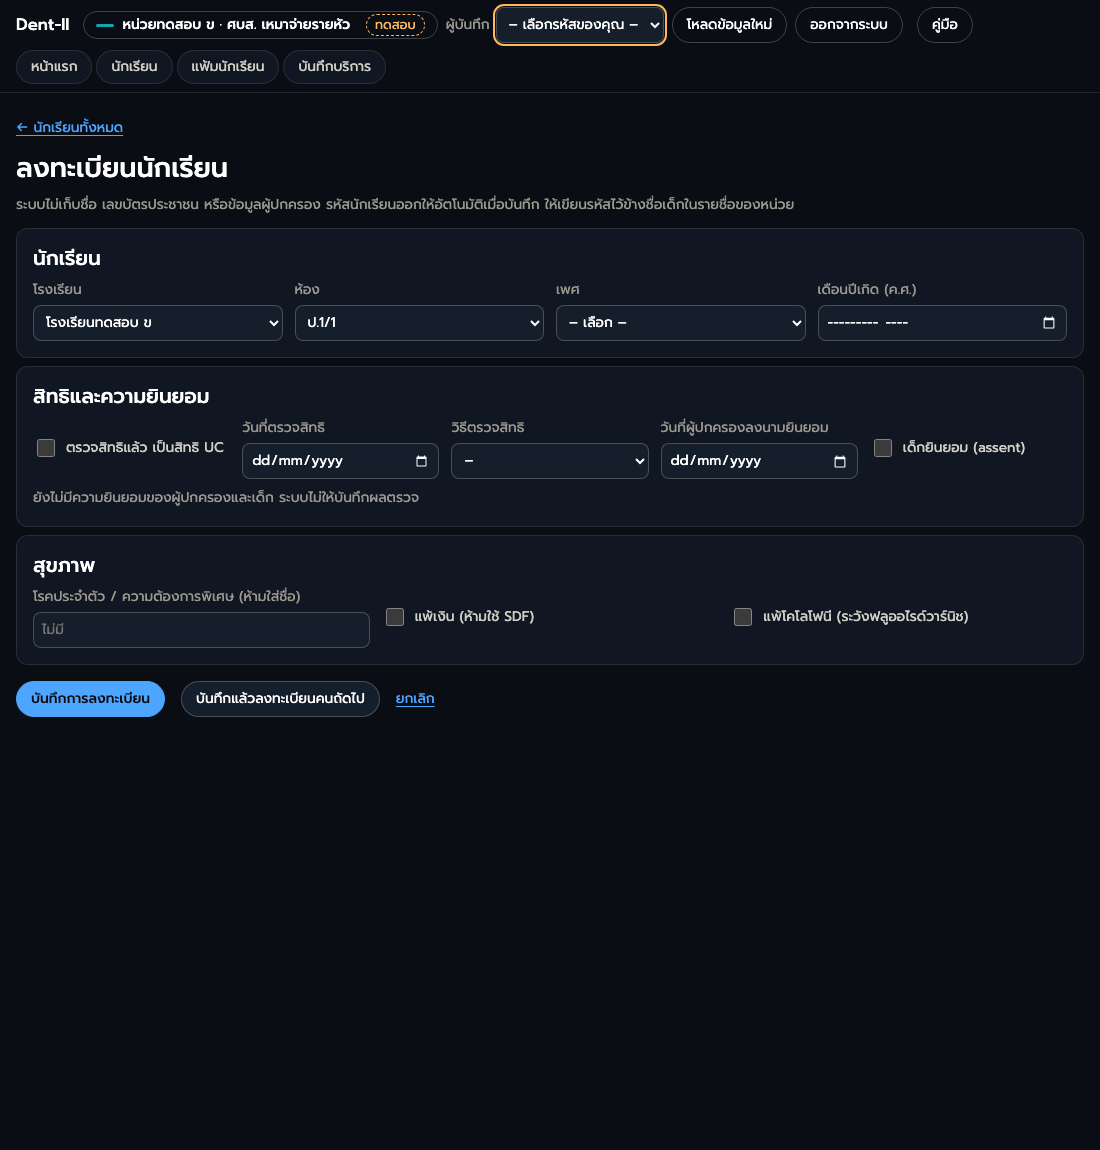
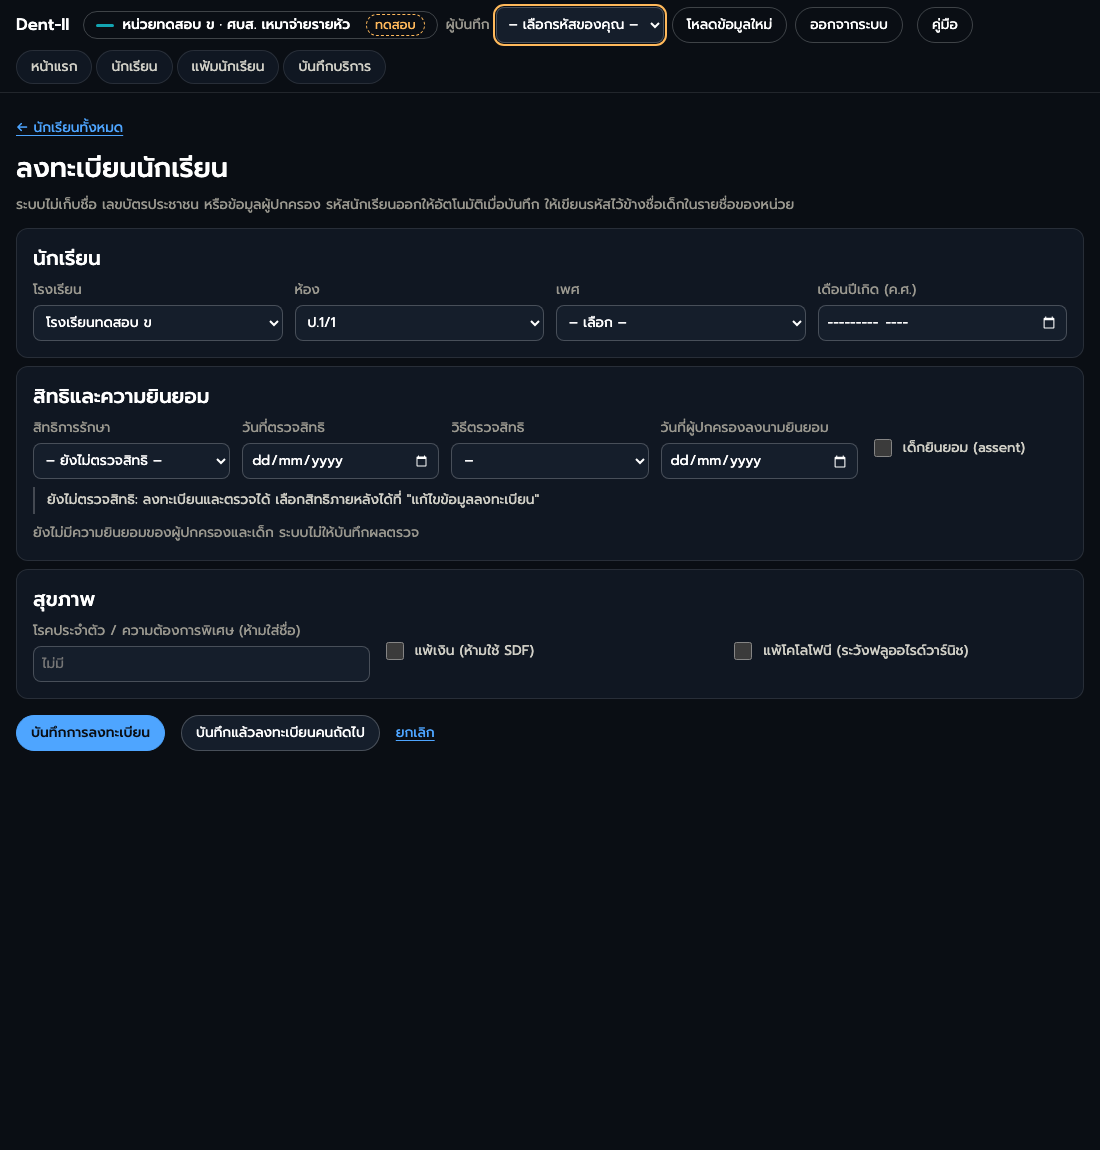
v1.0.2: health coverage at enrolment (UC / other public scheme / none), D-68
Other public schemes are claimed like UC; children with no public coverage
(e.g. foreign children) are paid the full project rate with no NHSO claim.
Coverage shows in the child file, kid cards, claim preview and ledger notes,
and in v_services_priced (coverage, nhso_first) and v_export_children.

Changed region(s): [[0.0, 0.3652, 0.4945, 0.6696], [0.6491, 0.5174, 0.8655, 0.5783], [0.34, 0.5174, 0.4945, 0.5783]]

diff --git a/app.js b/app.js
@@ -25,7 +25,7 @@ const el = (tag, attrs = {}, ...kids) => {
   for (const c of kids) if (c != null && c !== false) e.append(c);
   return e;
 };
-// Elements added in v1.0.1 may be missing from a cached old index.html: set them softly (R2-01).
+// Elements added in v1.0.1 and later may be missing from a cached old index.html: set them softly (R2-01).
 const setIf = (sel, key, v) => { const e = $(sel); if (e) e[key] = v; };
 // replaceChildren() prints null and false as text ("null"); this skips them, like el() does (R1-01).
 const fill = (node, ...kids) => node.replaceChildren(...kids.filter(c => c != null && c !== false));
@@ -313,6 +313,14 @@ function kidFrom(c, ex) {
   return k;
 }
 const sexTh = k => (k.c.sex === 'F' ? 'หญิง' : k.c.sex === 'M' ? 'ชาย' : '');
+// Health coverage (D-68): another public scheme is claimed like UC; with no public coverage (e.g. a foreign
+// child) the unit does not claim NHSO and the project pays its full rate.
+const COV = {
+  uc: { th: 'UC (บัตรทอง)', ex: '', rule: 'เบิก สปสช. ตามปกติ และเบิกโครงการตามอัตราค่าบริการของหน่วย' },
+  other: { th: 'สิทธิรัฐอื่น', ex: ' เช่น ข้าราชการ ประกันสังคม รัฐวิสาหกิจ อปท.', rule: 'เบิกเหมือนเด็กสิทธิ UC' },
+  none: { th: 'ไม่มีสิทธิรัฐ', ex: ' เช่น เด็กต่างด้าวที่ไม่มีหลักประกันสุขภาพภาครัฐ', rule: 'ไม่ต้องเบิก สปสช. โครงการจ่ายเต็มอัตราตามอัตราค่าบริการของหน่วย' },
+};
+const covText = c => (COV[c.coverage] ? `${COV[c.coverage].th} · ${COV[c.coverage].rule}` : 'ยังไม่ตรวจสิทธิ');
 const kidLabel = k => [k.cls, sexTh(k)].filter(Boolean).join(' · ');
 function reindex(u) {
   u.txByKid = {};
@@ -624,6 +632,7 @@ function kidCard(u, k, st) {
   m.firstChild.style.width = prog + '%';
   const chips = el('span', { class: 'kc-chips' },
     !hasConsent(k) ? el('span', { class: 'chip chip--stop', text: 'ยังไม่มีความยินยอม' }) : null,
+    k.c.coverage === 'none' ? el('span', { class: 'chip chip--plain', text: 'ไม่มีสิทธิรัฐ' }) : null,
     ...st.miss.slice(0, 4).map(x => el('span', { class: 'chip chip--warn', text: x.t })),
     ...st.due.slice(0, 3).map(x => el('span', { class: 'chip chip--due', text: x.t })),
     st.refWait ? el('span', { class: 'chip chip--stop', text: 'ส่งต่อ รอผล' }) : null,
@@ -694,7 +703,7 @@ const lastClass = u => { try { return JSON.parse(lsGet('dent2-class-' + u.id) ||
 function clearChildFields(c = {}) {
   $('#enSex').value = c.sex || '';
   $('#enBym').value = c.birth_ym || '';
-  $('#enUc').checked = !!c.uc_verified; $('#enUcDate').value = c.uc_checked_on || ''; $('#enUcMethod').value = c.uc_method || '';
+  setIf('#enCov', 'value', c.coverage || ''); $('#enUcDate').value = c.uc_checked_on || ''; $('#enUcMethod').value = c.uc_method || ''; covHint();
   $('#enConsent').value = c.consent_on || ''; $('#enAssent').checked = !!c.assent;
   $('#enCond').value = c.conditions || ''; $('#enAgSilver').checked = !!c.allergy_silver; $('#enAgColo').checked = !!c.allergy_colophony;
   beAll($('#enForm'));
@@ -719,6 +728,11 @@ function renderEnrol() {
   clearChildFields(c);
 }
 $('#enSchool').addEventListener('change', e => fillClasses(unit(), e.target.value));
+function covHint() {
+  const v = $('#enCov') ? $('#enCov').value : '';
+  setIf('#enCovHint', 'textContent', v ? `${COV[v].th}${COV[v].ex}: ${COV[v].rule}` : 'ยังไม่ตรวจสิทธิ: ลงทะเบียนและตรวจได้ เลือกสิทธิภายหลังได้ที่ "แก้ไขข้อมูลลงทะเบียน"');
+}
+$('#enCov')?.addEventListener('change', covHint);
 let enNext = false;   // which submit button was used (also for browsers without SubmitEvent.submitter)
 $('#enSaveNext')?.addEventListener('click', () => { enNext = true; });
 $('#enSave').addEventListener('click', () => { enNext = false; });
@@ -736,12 +750,13 @@ $('#enForm').addEventListener('submit', async e => {
   if (bym && +bym.slice(0, 4) > 2400) return bad('เดือนปีเกิด: ช่องนี้ใช้ปี ค.ศ. (พ.ศ. ลบ 543) เช่น 2019-05');
   if (bym && !/^\d{4}-(0[1-9]|1[0-2])$/.test(bym)) return bad('เดือนปีเกิด: ใส่ปี ค.ศ.-เดือน เช่น 2019-05');
   if (bym && bym > toInput(TODAY).slice(0, 7)) return bad('เดือนปีเกิดอยู่ในอนาคต');
+  if ($('#enCov') && !$('#enCov').value && ($('#enUcDate').value || $('#enUcMethod').value)) return bad('เลือกสิทธิการรักษา (ใส่วันที่หรือวิธีตรวจสิทธิไว้แล้ว)');
   for (const [id, lab] of [['#enUcDate', 'วันที่ตรวจสิทธิ'], ['#enConsent', 'วันที่ลงนามยินยอม']]) {
     const p = dateProblem($(id).value, lab); if (p) return bad(p);
   }
   const child = {
     school_id: $('#enSchool').value, class: $('#enClass').value, sex: $('#enSex').value, birth_ym: bym || null,
-    consent_on: $('#enConsent').value || null, assent: $('#enAssent').checked, uc_verified: $('#enUc').checked,
+    consent_on: $('#enConsent').value || null, assent: $('#enAssent').checked, coverage: $('#enCov') ? $('#enCov').value || null : undefined,
     uc_checked_on: $('#enUcDate').value || null, uc_method: $('#enUcMethod').value || null, conditions: $('#enCond').value.trim() || null,
     allergy_silver: $('#enAgSilver').checked, allergy_colophony: $('#enAgColo').checked,
   };
@@ -837,7 +852,7 @@ function renderFileHead() {
     el('details', {}, el('summary', { text: 'ข้อมูลลงทะเบียน' }),
       el('div', { class: 'childbar', style: 'margin-top:10px' },
         kv('เดือนปีเกิด', k.birth ? thMon(k.birth) : '–'),
-        kv('สิทธิ UC', k.c.uc_verified ? `ยืนยันแล้ว${k.c.uc_method ? ' (' + k.c.uc_method + ')' : ''}${k.c.uc_checked_on ? ' ' + thShort(fromInput(k.c.uc_checked_on)) : ''}` : 'ยังไม่ยืนยัน'),
+        kv('สิทธิการรักษา', `${covText(k.c)}${k.c.coverage && k.c.uc_method ? ' (' + k.c.uc_method + ')' : ''}${k.c.coverage && k.c.uc_checked_on ? ' ' + thShort(fromInput(k.c.uc_checked_on)) : ''}`),
         kv('ความยินยอม', `${k.c.consent_on ? 'ผู้ปกครองลงนาม ' + thShort(fromInput(k.c.consent_on)) : 'ผู้ปกครองยังไม่ลงนาม'} · ${k.c.assent ? 'เด็กยินยอม' : 'เด็กยังไม่ยินยอม'}`),
         kv('โรคประจำตัว · การแพ้', `${k.c.conditions || 'ไม่มี'} · ${[k.c.allergy_silver ? 'แพ้เงิน (ห้าม SDF)' : '', k.c.allergy_colophony ? 'แพ้โคโลโฟนี' : ''].filter(Boolean).join(', ') || 'ไม่มี'}`)),
       el('div', { class: 'row', style: 'margin-top:10px' }, el('button', { class: 'btn', type: 'button', text: 'แก้ไขข้อมูลลงทะเบียน', onclick: () => { if (dirtyGuard()) { S.editId = k.id; show('enrol'); } } }))));
@@ -1361,6 +1376,9 @@ function txFlags(u) {
     if (isPrimNo(tx.tooth)) notes.push('ฟันน้ำนม ไม่นับในงบโครงการ');
     if (PRICE[tx.code] && PRICE[tx.code].outside && !isPrimNo(tx.tooth)) notes.push('นอกงบโครงการ เบิกตามระบบปกติ');
     if (PRICE[tx.code] && PRICE[tx.code].unpriced) notes.push('ยังไม่มีราคา (นับจำนวนไว้)');
+    const kc = tx.kid && u.byId[tx.kid] ? u.byId[tx.kid].c : null;
+    if (kc && kc.coverage === 'none') notes.push('ไม่มีสิทธิรัฐ: ไม่เบิก สปสช. โครงการจ่ายเต็มอัตรา');
+    if (kc && !kc.coverage) notes.push('ยังไม่ระบุสิทธิการรักษา');
     if (tx.kid && tx.code === '170') {
       if (u.arm === 'control' ? bump(`170|${tx.kid}|${tx.date.getFullYear()}`) > 1 : bump(`170|${tx.kid}|${tx.date.getFullYear()}-${tx.date.getMonth()}`) > 1)
         notes.push(u.arm === 'control' ? 'ฟลูออไรด์เกินปีละ 1 ครั้ง (เงื่อนไข สปสช. รอยืนยัน)' : 'ฟลูออไรด์เกินเดือนละ 1 ครั้ง');
@@ -1431,6 +1449,7 @@ function claimPreview() {
   const pf = planFor(k, { code, tooth, date: d });
   const v = refValue(u, code, tooth);
   pv.append(line('นักเรียน', `${k.id} · ${kidLabel(k)} · เดือนที่ ${monthOf(k.base, d)} หลังตรวจครั้งแรก`),
+    line('สิทธิ', k.c.coverage ? covText(k.c) : 'ยังไม่ตรวจสิทธิ · เลือกได้ที่ "แก้ไขข้อมูลลงทะเบียน" ในแฟ้มนักเรียน'),
     line('แผน', !pf ? 'นอกแผน · บันทึกได้ ติดป้าย "นอกแผน"'
       : pf.late ? `ตามแผน (เลยกำหนด) เดือนที่ ${pf.month}: ${rowName(pf.row)} · ติ๊กช่องเดือนที่ ${pf.month} ให้`
         : `ตรงกับแผน: ${rowName(pf.row)}${pf.month ? ` เดือนที่ ${pf.month}` : ''} · ติ๊กในแผนให้`),

diff --git a/guide.html b/guide.html
@@ -101,7 +101,13 @@ kbd { font-family: inherit; border: 1px solid var(--line); border-bottom-width: 
 <ol>
 <li>ไปที่แท็บ <b>นักเรียน</b> กด <b>+ ลงทะเบียนนักเรียน</b></li>
 <li>เลือกโรงเรียน ห้อง และเพศ ใส่เดือนปีเกิด (ปี ค.ศ.)</li>
-<li>สิทธิ UC: ติ๊กเมื่อตรวจสิทธิแล้ว ใส่วันที่และวิธีตรวจ</li>
+<li>สิทธิการรักษา: เลือก 1 ใน 3 แล้วใส่วันที่และวิธีตรวจสิทธิ
+  <ul>
+  <li><b>UC (บัตรทอง)</b>: เบิก สปสช. ตามปกติ และเบิกโครงการตามอัตราค่าบริการของหน่วย</li>
+  <li><b>สิทธิรัฐอื่น</b> เช่น ข้าราชการ ประกันสังคม รัฐวิสาหกิจ อปท.: เบิกเหมือนเด็กสิทธิ UC</li>
+  <li><b>ไม่มีสิทธิรัฐ</b> เช่น เด็กต่างด้าวที่ไม่มีหลักประกันสุขภาพภาครัฐ: ไม่ต้องเบิก สปสช. โครงการจ่ายเต็มอัตราตามอัตราค่าบริการของหน่วย</li>
+  </ul>
+  ยังไม่ได้ตรวจสิทธิก็ลงทะเบียนและตรวจได้ แล้วเลือกสิทธิภายหลังที่ "แก้ไขข้อมูลลงทะเบียน"</li>
 <li>ความยินยอม: ใส่วันที่ผู้ปกครองลงนาม และติ๊ก "เด็กยินยอม" <b>ถ้าไม่มีทั้งสองอย่าง ระบบจะไม่ให้บันทึกผลตรวจ</b></li>
 <li>โรคประจำตัวและการแพ้: แพ้เงินห้ามใช้ SDF แพ้โคโลโฟนีให้ระวังฟลูออไรด์วาร์นิช</li>
 <li>กด <b>บันทึกการลงทะเบียน</b> ระบบแสดงรหัสนักเรียนใหม่ <b>เขียนรหัสนี้ลงในรายชื่อของหน่วยทันที</b></li>
@@ -167,7 +173,7 @@ kbd { font-family: inherit; border: 1px solid var(--line); border-bottom-width: 
 <li>หลักฐาน: รูปกิจกรรมและรายชื่อที่ครูประจำชั้นลงนาม เก็บไว้ที่หน่วย</li>
 </ol>
 <figure><img src="guide-img/claims.png" alt="หน้าบันทึกและเบิก" loading="lazy"><figcaption>หน้าบันทึกและเบิก</figcaption></figure>
-<p>ระบบเตือนเมื่อบันทึกซ้ำเกินเงื่อนไข เช่น ฟลูออไรด์เกินเดือนละครั้ง เคลือบหลุมร่องฟันซ้ำซี่เดิม ชุดอุปกรณ์แปรงฟันเกินปีละครั้ง ข้อความเตือนขึ้นสีส้มใต้ชื่อบริการ</p>
+<p>ระบบเตือนเมื่อบันทึกซ้ำเกินเงื่อนไข เช่น ฟลูออไรด์เกินเดือนละครั้ง เคลือบหลุมร่องฟันซ้ำซี่เดิม ชุดอุปกรณ์แปรงฟันเกินปีละครั้ง ข้อความเตือนขึ้นสีส้มใต้ชื่อบริการ รายการของเด็กที่ไม่มีสิทธิรัฐมีข้อความ "ไม่มีสิทธิรัฐ: ไม่เบิก สปสช. โครงการจ่ายเต็มอัตรา" และรายการของเด็กที่ยังไม่ได้เลือกสิทธิมีข้อความ "ยังไม่ระบุสิทธิการรักษา"</p>
 
 <h2 id="s7">7. ส่งเบิก</h2>
 <ul>

diff --git a/index.html b/index.html
@@ -8,8 +8,8 @@
 <link rel="preconnect" href="https://fonts.googleapis.com">
 <link rel="preconnect" href="https://fonts.gstatic.com" crossorigin>
 <link rel="stylesheet" href="https://fonts.googleapis.com/css2?family=Prompt:wght@300;400;500;600&display=swap">
-<link rel="stylesheet" href="style.css?v=1.0.1">
-<link rel="stylesheet" href="app.css?v=1.0.1">
+<link rel="stylesheet" href="style.css?v=1.0.2">
+<link rel="stylesheet" href="app.css?v=1.0.2">
 </head>
 <body>
 <header class="topbar">
@@ -96,12 +96,13 @@
       <div class="card stack">
         <h3>สิทธิและความยินยอม</h3>
         <div class="g2f">
-          <label class="chk"><input type="checkbox" id="enUc"> ตรวจสิทธิแล้ว เป็นสิทธิ UC</label>
+          <label class="field">สิทธิการรักษา<select id="enCov"><option value="">– ยังไม่ตรวจสิทธิ –</option><option value="uc">UC (บัตรทอง)</option><option value="other">สิทธิรัฐอื่น</option><option value="none">ไม่มีสิทธิรัฐ</option></select></label>
           <label class="field">วันที่ตรวจสิทธิ<input id="enUcDate" type="date"></label>
           <label class="field">วิธีตรวจสิทธิ<select id="enUcMethod"><option value="">–</option><option>ตรวจสิทธิออนไลน์</option><option>บัตรประชาชน / สูติบัตร</option><option>อื่น ๆ</option></select></label>
           <label class="field">วันที่ผู้ปกครองลงนามยินยอม<input id="enConsent" type="date"></label>
           <label class="chk"><input type="checkbox" id="enAssent"> เด็กยินยอม (assent)</label>
         </div>
+        <p class="note" id="enCovHint" aria-live="polite"></p>
         <p class="small muted">ยังไม่มีความยินยอมของผู้ปกครองและเด็ก ระบบไม่ให้บันทึกผลตรวจ</p>
       </div>
       <div class="card stack">
@@ -333,7 +334,7 @@
 <div class="tip-float" id="ftip" role="tooltip" hidden></div>
 
 <script src="vendor/supabase.js"></script>
-<script src="config.js?v=1.0.1"></script>
-<script src="app.js?v=1.0.1"></script>
+<script src="config.js?v=1.0.2"></script>
+<script src="app.js?v=1.0.2"></script>
 </body>
 </html>
